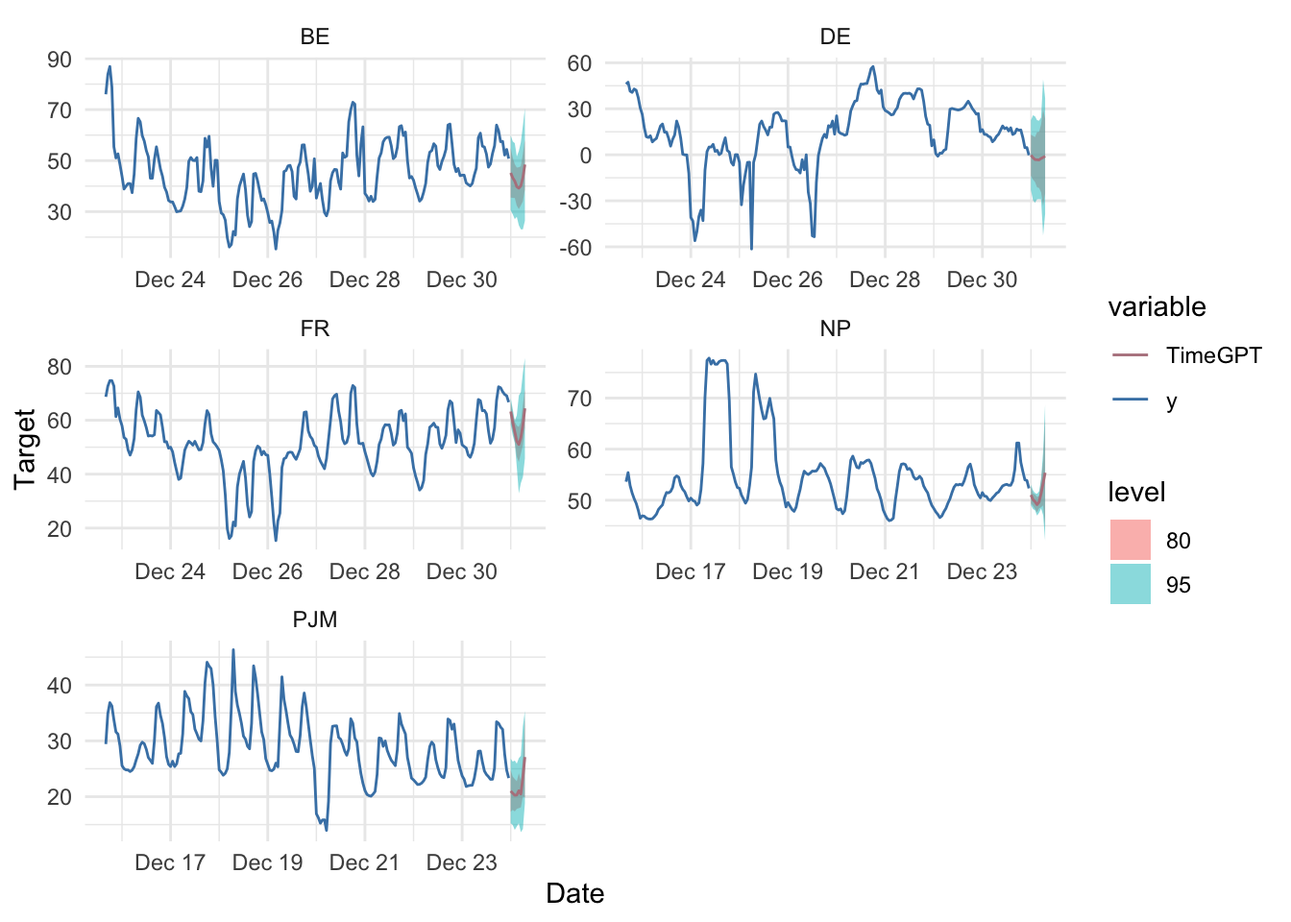
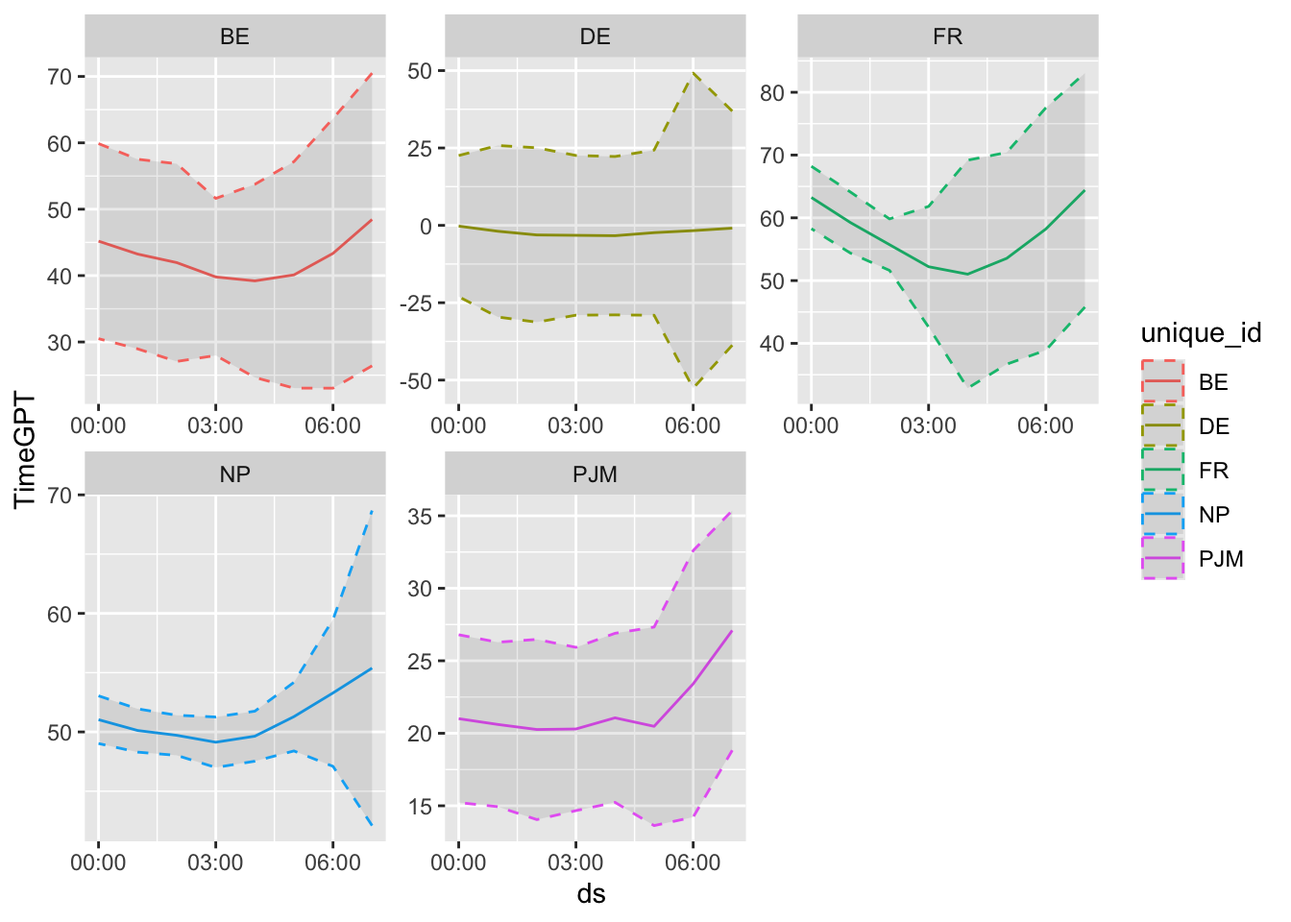
Ready to transfer to R Works

diff --git a/TimeGPT/nixtlar_post.html b/TimeGPT/nixtlar_post.html
@@ -9,7 +9,7 @@
 <meta name="author" content="Joseph Rickert">
 <meta name="dcterms.date" content="2024-12-13">
 
-<title>A First Look at TimeGPT</title>
+<title>A First Look at TimeGPT using nixtlar</title>
 <style>
 code{white-space: pre-wrap;}
 span.smallcaps{font-variant: small-caps;}
@@ -81,7 +81,7 @@ pre > code.sourceCode > span > a:first-child::before { text-decoration: underlin
 
 <header id="title-block-header" class="quarto-title-block default">
 <div class="quarto-title">
-<h1 class="title">A First Look at TimeGPT</h1>
+<h1 class="title">A First Look at TimeGPT using nixtlar</h1>
 </div>
 
 
@@ -108,7 +108,7 @@ pre > code.sourceCode > span > a:first-child::before { text-decoration: underlin
 
 </header>
 
-<p>This post is a first look at <a href="https://docs.nixtla.io/">Nixtla’s</a> <code>TimeGPT</code> generative, pre-trained transformer for time series forecasting.</p>
+<p>This post is a first look at <a href="https://docs.nixtla.io/">Nixtla’s</a> <code>TimeGPT</code> generative, pre-trained transformer for time series forecasting using the <code>nixtlar</code> R package.</p>
 <p>According to <a href="https://arxiv.org/abs/2111.04052">Garza et al.&nbsp;(2021)</a>, TimeGPT is a Transformer-based time series model with self-attention mechanisms. The architecture comprises an encoder-decoder structure with multiple layers, each with residual connections and layer normalization. The encoder, a stack of multi-head self-attention layers followed by a feed-forward neural network, processes the input time series. The decoder, which is similar to the encoder, generates the forecast. The decoder includes an additional multi-head attention layer that takes the encoder’s output as input. The model is trained using a teacher-forcing strategy, where the decoder receives the ground-truth values during training. The model is then used for forecasting by feeding the model’s predictions back as input during inference.</p>
 <p><img src="timegpt.png" class="img-fluid" alt="TimeGPT architecture"></p>
 <p>Nixtla’s website provides a considerable amount of explanatory material, documentation, and code examples in Python. The <a href="https://cran.r-project.org/package=nixtlar"><code>nixlar</code></a> package wraps the Python code to provide an R interface. The package documentation for version 0.6.2 doesn’t fully the R functions, but the vignettes provide sufficient code examples to get started.</p>
@@ -120,22 +120,14 @@ pre > code.sourceCode > span > a:first-child::before { text-decoration: underlin
 <span id="cb1-4"><a href="#cb1-4" aria-hidden="true" tabindex="-1"></a><span class="fu">library</span>(prophet)</span>
 <span id="cb1-5"><a href="#cb1-5" aria-hidden="true" tabindex="-1"></a><span class="fu">library</span>(nixtlar)</span></code><button title="Copy to Clipboard" class="code-copy-button"><i class="bi"></i></button></pre></div>
 </div>
+<section id="the-data" class="level2">
+<h2 class="anchored" data-anchor-id="the-data">The Data</h2>
+<p>The electricity dataset included in the <code>nixtlar</code> package contains hourly observations of electricity consumption generated sourced from the <a href="https://www.pjm.com/">PJM Interconnection LLC</a>, a regional transmission organization that is part of the Eastern Interconnection grid in the United States. There are five different time series with data taken from 2012 to 2018. A look at the data frame shows that the various series do not cover the same time periods.</p>
 <div class="cell">
-<div class="sourceCode cell-code" id="cb2"><pre class="sourceCode r code-with-copy"><code class="sourceCode r"><span id="cb2-1"><a href="#cb2-1" aria-hidden="true" tabindex="-1"></a><span class="co"># saveRDS(nixtla_fcst, "nixtla_fcst.rds")</span></span>
-<span id="cb2-2"><a href="#cb2-2" aria-hidden="true" tabindex="-1"></a>nixtla_fcst <span class="ot">&lt;-</span> <span class="fu">readRDS</span>(<span class="st">"nixtla_fcst.rds"</span>)</span>
-<span id="cb2-3"><a href="#cb2-3" aria-hidden="true" tabindex="-1"></a><span class="co"># saveRDS(nixtla_hist_fcst, "nixtla_hist_fcst.rds")</span></span>
-<span id="cb2-4"><a href="#cb2-4" aria-hidden="true" tabindex="-1"></a>nixt_hist_fcst <span class="ot">&lt;-</span> <span class="fu">readRDS</span>(<span class="st">"nixtla_hist_fcst.rds"</span>)</span>
-<span id="cb2-5"><a href="#cb2-5" aria-hidden="true" tabindex="-1"></a><span class="co"># saveRDS(nixtla_client_fcst, "nixtla_client_fcst.rds")</span></span>
-<span id="cb2-6"><a href="#cb2-6" aria-hidden="true" tabindex="-1"></a>nixtla_client_fcst <span class="ot">&lt;-</span> <span class="fu">readRDS</span>(<span class="st">"nixtla_client_fcst.rds"</span>)</span></code><button title="Copy to Clipboard" class="code-copy-button"><i class="bi"></i></button></pre></div>
-</div>
-<section id="the-data" class="level3">
-<h3 class="anchored" data-anchor-id="the-data">The Data</h3>
-<p>We will use the electricity dataset provided with the <code>nixtlar</code> package that contains a total of 61,320 observations of hourly electricity consumption generated from 2012 to 2018 for five different markets New York markets. So there are five different time series. You can see that the various time series do not cover the same time periods.</p>
-<div class="cell">
-<div class="sourceCode cell-code" id="cb3"><pre class="sourceCode r code-with-copy"><code class="sourceCode r"><span id="cb3-1"><a href="#cb3-1" aria-hidden="true" tabindex="-1"></a>df <span class="ot">&lt;-</span> nixtlar<span class="sc">::</span>electricity</span>
-<span id="cb3-2"><a href="#cb3-2" aria-hidden="true" tabindex="-1"></a>df_wide <span class="ot">&lt;-</span> df <span class="sc">|&gt;</span> </span>
-<span id="cb3-3"><a href="#cb3-3" aria-hidden="true" tabindex="-1"></a>  <span class="fu">pivot_wider</span>(<span class="at">names_from =</span> unique_id, <span class="at">values_from =</span> y) </span>
-<span id="cb3-4"><a href="#cb3-4" aria-hidden="true" tabindex="-1"></a><span class="fu">head</span>(df_wide)</span></code><button title="Copy to Clipboard" class="code-copy-button"><i class="bi"></i></button></pre></div>
+<div class="sourceCode cell-code" id="cb2"><pre class="sourceCode r code-with-copy"><code class="sourceCode r"><span id="cb2-1"><a href="#cb2-1" aria-hidden="true" tabindex="-1"></a>df <span class="ot">&lt;-</span> nixtlar<span class="sc">::</span>electricity</span>
+<span id="cb2-2"><a href="#cb2-2" aria-hidden="true" tabindex="-1"></a>df_wide <span class="ot">&lt;-</span> df <span class="sc">|&gt;</span> </span>
+<span id="cb2-3"><a href="#cb2-3" aria-hidden="true" tabindex="-1"></a>  <span class="fu">pivot_wider</span>(<span class="at">names_from =</span> unique_id, <span class="at">values_from =</span> y) </span>
+<span id="cb2-4"><a href="#cb2-4" aria-hidden="true" tabindex="-1"></a><span class="fu">head</span>(df_wide)</span></code><button title="Copy to Clipboard" class="code-copy-button"><i class="bi"></i></button></pre></div>
 <div class="cell-output cell-output-stdout">
 <pre><code># A tibble: 6 × 6
   ds                     BE    DE    FR    NP   PJM
@@ -148,38 +140,46 @@ pre > code.sourceCode > span > a:first-child::before { text-decoration: underlin
 6 2016-10-22 05:00:00  35.6    NA  41.4    NA    NA</code></pre>
 </div>
 </div>
-<p>A plot will give you a good feel for the data.</p>
+<p>Plots indicate that all of the series show periods of considerable volatility. The BE, DE, and FR series appear to be stationary. NP trends upward to the right and the PJM series appears to be nonlinear.</p>
 <div class="cell">
-<div class="sourceCode cell-code" id="cb5"><pre class="sourceCode r code-with-copy"><code class="sourceCode r"><span id="cb5-1"><a href="#cb5-1" aria-hidden="true" tabindex="-1"></a>df2 <span class="ot">&lt;-</span> df <span class="sc">|&gt;</span> <span class="fu">mutate</span>( <span class="at">time =</span> <span class="fu">as.POSIXct</span>(ds, <span class="at">format =</span> <span class="st">"%Y-%m-%d %H:%M:%S"</span>)) <span class="sc">|&gt;</span> </span>
-<span id="cb5-2"><a href="#cb5-2" aria-hidden="true" tabindex="-1"></a>                     <span class="fu">group_by</span>(unique_id)</span>
-<span id="cb5-3"><a href="#cb5-3" aria-hidden="true" tabindex="-1"></a>p <span class="ot">&lt;-</span> df2 <span class="sc">|&gt;</span> <span class="fu">ggplot</span>(<span class="fu">aes</span>(<span class="at">x =</span> time, <span class="at">y =</span> y, <span class="at">color =</span> unique_id)) <span class="sc">+</span></span>
-<span id="cb5-4"><a href="#cb5-4" aria-hidden="true" tabindex="-1"></a>           <span class="fu">geom_line</span>() <span class="sc">+</span> <span class="fu">facet_wrap</span>(<span class="sc">~</span>unique_id, <span class="at">scales =</span> <span class="st">"free"</span>)</span>
-<span id="cb5-5"><a href="#cb5-5" aria-hidden="true" tabindex="-1"></a>p</span></code><button title="Copy to Clipboard" class="code-copy-button"><i class="bi"></i></button></pre></div>
+<div class="sourceCode cell-code" id="cb4"><pre class="sourceCode r code-with-copy"><code class="sourceCode r"><span id="cb4-1"><a href="#cb4-1" aria-hidden="true" tabindex="-1"></a>df2 <span class="ot">&lt;-</span> df <span class="sc">|&gt;</span> <span class="fu">mutate</span>( <span class="at">time =</span> <span class="fu">as.POSIXct</span>(ds, <span class="at">format =</span> <span class="st">"%Y-%m-%d %H:%M:%S"</span>)) <span class="sc">|&gt;</span> </span>
+<span id="cb4-2"><a href="#cb4-2" aria-hidden="true" tabindex="-1"></a>                     <span class="fu">group_by</span>(unique_id)</span>
+<span id="cb4-3"><a href="#cb4-3" aria-hidden="true" tabindex="-1"></a>p <span class="ot">&lt;-</span> df2 <span class="sc">|&gt;</span> <span class="fu">ggplot</span>(<span class="fu">aes</span>(<span class="at">x =</span> time, <span class="at">y =</span> y, <span class="at">color =</span> unique_id)) <span class="sc">+</span></span>
+<span id="cb4-4"><a href="#cb4-4" aria-hidden="true" tabindex="-1"></a>           <span class="fu">geom_line</span>() <span class="sc">+</span> <span class="fu">facet_wrap</span>(<span class="sc">~</span>unique_id, <span class="at">scales =</span> <span class="st">"free"</span>)</span>
+<span id="cb4-5"><a href="#cb4-5" aria-hidden="true" tabindex="-1"></a>p</span></code><button title="Copy to Clipboard" class="code-copy-button"><i class="bi"></i></button></pre></div>
 <div class="cell-output-display">
-<p><img src="nixtlar_post_files/figure-html/unnamed-chunk-4-1.png" class="img-fluid" width="672"></p>
+<p><img src="nixtlar_post_files/figure-html/unnamed-chunk-3-1.png" class="img-fluid" width="672"></p>
 </div>
 </div>
 </section>
-<section id="forecasting" class="level3">
-<h3 class="anchored" data-anchor-id="forecasting">Forecasting</h3>
-<p>We will start out by showing off the <code>nixtlar</code> forecasting function which can handle multiple time series by forecasting eight hours ahead using all of the data. The parameter <code>h</code> specifies the number of steps ahead to forecast, and <code>level</code> specifies parameter that the confidence level for the forecast.</p>
+<section id="some-comparative-frecasts" class="level2">
+<h2 class="anchored" data-anchor-id="some-comparative-frecasts">Some Comparative Frecasts</h2>
+<section id="the-timegpt-forecst" class="level3">
+<h3 class="anchored" data-anchor-id="the-timegpt-forecst">The TimeGPT Forecst</h3>
+<p>I’ll begin by showing off the <code>nixtlar</code> forecasting function which can handle multiple time series by forecasting eight hours ahead using all of the data. The parameter <code>h</code> specifies the number of steps ahead to forecast, and <code>level</code> specifies parameter that the confidence level for the forecast.</p>
 <p>Here is the built-in <code>nixtlar</code> plot function</p>
+<div class="cell">
+<div class="sourceCode cell-code" id="cb5"><pre class="sourceCode r code-with-copy"><code class="sourceCode r"><span id="cb5-1"><a href="#cb5-1" aria-hidden="true" tabindex="-1"></a><span class="co">#nixtla_client_plot(df, nixtla_client_fcst, max_insample_length = 200)</span></span></code><button title="Copy to Clipboard" class="code-copy-button"><i class="bi"></i></button></pre></div>
+</div>
 <p><img src="fcst.png" class="img-fluid" alt=""></p>
-<p>And here we focuse on the forecasts using <code>ggplot2</code>.</p>
+<p>This plot uses<code>ggplot2</code>to focus in on the forecasts.</p>
 <div class="cell">
 <div class="sourceCode cell-code" id="cb6"><pre class="sourceCode r code-with-copy"><code class="sourceCode r"><span id="cb6-1"><a href="#cb6-1" aria-hidden="true" tabindex="-1"></a><span class="co"># nixtla_client_fcst &lt;- nixtla_client_forecast(df, h = 8, level = c(80,95))</span></span>
-<span id="cb6-2"><a href="#cb6-2" aria-hidden="true" tabindex="-1"></a>ncf_df <span class="ot">&lt;-</span>  nixtla_client_fcst <span class="sc">|&gt;</span> <span class="fu">mutate</span>( <span class="at">time =</span> <span class="fu">as.POSIXct</span>(ds, <span class="at">format =</span> <span class="st">"%Y-%m-%d %H:%M:%S"</span>)) <span class="sc">|&gt;</span> <span class="fu">group_by</span>(unique_id)</span>
-<span id="cb6-3"><a href="#cb6-3" aria-hidden="true" tabindex="-1"></a><span class="fu">names</span>(ncf_df) <span class="ot">&lt;-</span> <span class="fu">c</span>(<span class="st">"unique_id"</span>, <span class="st">"ds"</span>, <span class="st">"TimeGPT"</span>,  <span class="st">"lon"</span>, <span class="st">"loe"</span>, <span class="st">"hie"</span>, <span class="st">"hin"</span>)</span>
-<span id="cb6-4"><a href="#cb6-4" aria-hidden="true" tabindex="-1"></a>pf <span class="ot">&lt;-</span> ncf_df <span class="sc">|&gt;</span> <span class="fu">ggplot</span>(<span class="fu">aes</span>(<span class="at">x =</span> ds, <span class="at">y =</span> TimeGPT, <span class="at">color =</span> unique_id)) <span class="sc">+</span></span>
-<span id="cb6-5"><a href="#cb6-5" aria-hidden="true" tabindex="-1"></a>           <span class="fu">geom_line</span>() <span class="sc">+</span></span>
-<span id="cb6-6"><a href="#cb6-6" aria-hidden="true" tabindex="-1"></a>           <span class="fu">geom_ribbon</span>(<span class="fu">aes</span>(<span class="at">ymin=</span>lon, <span class="at">ymax=</span>hin), <span class="at">linetype=</span><span class="dv">2</span>, <span class="at">alpha=</span><span class="fl">0.1</span>) <span class="sc">+</span></span>
-<span id="cb6-7"><a href="#cb6-7" aria-hidden="true" tabindex="-1"></a>           <span class="fu">facet_wrap</span>(<span class="sc">~</span>unique_id, <span class="at">scales =</span> <span class="st">"free"</span>) </span>
-<span id="cb6-8"><a href="#cb6-8" aria-hidden="true" tabindex="-1"></a>pf</span></code><button title="Copy to Clipboard" class="code-copy-button"><i class="bi"></i></button></pre></div>
+<span id="cb6-2"><a href="#cb6-2" aria-hidden="true" tabindex="-1"></a><span class="co"># saveRDS(nixtla_client_fcst, "nixtla_client_fcst.rds")</span></span>
+<span id="cb6-3"><a href="#cb6-3" aria-hidden="true" tabindex="-1"></a>nixtla_client_fcst <span class="ot">&lt;-</span> <span class="fu">readRDS</span>(<span class="st">"nixtla_client_fcst.rds"</span>)</span>
+<span id="cb6-4"><a href="#cb6-4" aria-hidden="true" tabindex="-1"></a></span>
+<span id="cb6-5"><a href="#cb6-5" aria-hidden="true" tabindex="-1"></a>ncf_df <span class="ot">&lt;-</span>  nixtla_client_fcst <span class="sc">|&gt;</span> <span class="fu">mutate</span>( <span class="at">time =</span> <span class="fu">as.POSIXct</span>(ds, <span class="at">format =</span> <span class="st">"%Y-%m-%d %H:%M:%S"</span>)) <span class="sc">|&gt;</span> <span class="fu">group_by</span>(unique_id)</span>
+<span id="cb6-6"><a href="#cb6-6" aria-hidden="true" tabindex="-1"></a><span class="fu">names</span>(ncf_df) <span class="ot">&lt;-</span> <span class="fu">c</span>(<span class="st">"unique_id"</span>, <span class="st">"ds"</span>, <span class="st">"TimeGPT"</span>,  <span class="st">"lon"</span>, <span class="st">"loe"</span>, <span class="st">"hie"</span>, <span class="st">"hin"</span>)</span>
+<span id="cb6-7"><a href="#cb6-7" aria-hidden="true" tabindex="-1"></a>pf <span class="ot">&lt;-</span> ncf_df <span class="sc">|&gt;</span> <span class="fu">ggplot</span>(<span class="fu">aes</span>(<span class="at">x =</span> ds, <span class="at">y =</span> TimeGPT, <span class="at">color =</span> unique_id)) <span class="sc">+</span></span>
+<span id="cb6-8"><a href="#cb6-8" aria-hidden="true" tabindex="-1"></a>           <span class="fu">geom_line</span>() <span class="sc">+</span></span>
+<span id="cb6-9"><a href="#cb6-9" aria-hidden="true" tabindex="-1"></a>           <span class="fu">geom_ribbon</span>(<span class="fu">aes</span>(<span class="at">ymin=</span>lon, <span class="at">ymax=</span>hin), <span class="at">linetype=</span><span class="dv">2</span>, <span class="at">alpha=</span><span class="fl">0.1</span>) <span class="sc">+</span></span>
+<span id="cb6-10"><a href="#cb6-10" aria-hidden="true" tabindex="-1"></a>           <span class="fu">facet_wrap</span>(<span class="sc">~</span>unique_id, <span class="at">scales =</span> <span class="st">"free"</span>) </span>
+<span id="cb6-11"><a href="#cb6-11" aria-hidden="true" tabindex="-1"></a>pf</span></code><button title="Copy to Clipboard" class="code-copy-button"><i class="bi"></i></button></pre></div>
 <div class="cell-output-display">
-<p><img src="nixtlar_post_files/figure-html/unnamed-chunk-6-1.png" class="img-fluid" width="672"></p>
+<p><img src="nixtlar_post_files/figure-html/unnamed-chunk-5-1.png" class="img-fluid" width="672"></p>
 </div>
 </div>
-<p>For the rest of this post we will work only with the BE data and do some simple back testing. We will split the data into training set and a test set containing 24 hours worth of observations. We will then fit several time series forecasting models and compare how well they do vis a vis the actual data and with each other.</p>
+<p>For the rest of this post I’ll work only with the BE data and do some simple back testing. I will split the data into training set and a test set containing 24 hours worth of observations. Then I’ll fit established time series forecasting models and compare how well they do vis-a-vis the actual data and with each other. Note, I will not attempt any tuning of these models. This will make it a fair, “out-of-the-box” comparison.</p>
 <div class="cell">
 <div class="sourceCode cell-code" id="cb7"><pre class="sourceCode r code-with-copy"><code class="sourceCode r"><span id="cb7-1"><a href="#cb7-1" aria-hidden="true" tabindex="-1"></a>NF <span class="ot">&lt;-</span> <span class="dv">24</span></span>
 <span id="cb7-2"><a href="#cb7-2" aria-hidden="true" tabindex="-1"></a>BE_df_wide <span class="ot">&lt;-</span> df <span class="sc">|&gt;</span> <span class="fu">pivot_wider</span>(<span class="at">names_from =</span> unique_id, <span class="at">values_from =</span> y) <span class="sc">|&gt;</span></span>
@@ -189,12 +189,14 @@ pre > code.sourceCode > span > a:first-child::before { text-decoration: underlin
 <span id="cb7-6"><a href="#cb7-6" aria-hidden="true" tabindex="-1"></a>BE_train_df <span class="ot">&lt;-</span> BE_train_df <span class="sc">|&gt;</span> <span class="fu">rename</span>(<span class="at">y =</span> BE) <span class="sc">|&gt;</span> <span class="fu">mutate</span>(<span class="at">unique_id =</span> <span class="st">"BE"</span>)</span>
 <span id="cb7-7"><a href="#cb7-7" aria-hidden="true" tabindex="-1"></a>BE_test_df <span class="ot">&lt;-</span> BE_test_df <span class="sc">|&gt;</span> <span class="fu">rename</span>(<span class="at">y =</span> BE)</span></code><button title="Copy to Clipboard" class="code-copy-button"><i class="bi"></i></button></pre></div>
 </div>
-<p>We start of with the TemeGPT forecast.</p>
+<p>The <code>nixtla_client_forecast()</code> function is the main <code>nixtlar</code> forecasting function. (I have already run this function and saved the results RDS file in order not to make an API call every time the code is run during the blog building process.)</p>
 <div class="cell">
-<div class="sourceCode cell-code" id="cb8"><pre class="sourceCode r code-with-copy"><code class="sourceCode r"><span id="cb8-1"><a href="#cb8-1" aria-hidden="true" tabindex="-1"></a><span class="co">#nixtla_fcst &lt;- nixtla_client_forecast(BE_train_df, h = NF, level = 95)</span></span>
-<span id="cb8-2"><a href="#cb8-2" aria-hidden="true" tabindex="-1"></a><span class="fu">names</span>(nixtla_fcst) <span class="ot">&lt;-</span> <span class="fu">c</span>(<span class="st">"unique_id"</span>, <span class="st">"ds"</span>, <span class="st">"TimeGPT"</span>, <span class="st">"lo95"</span>, <span class="st">"up95"</span>)</span></code><button title="Copy to Clipboard" class="code-copy-button"><i class="bi"></i></button></pre></div>
+<div class="sourceCode cell-code" id="cb8"><pre class="sourceCode r code-with-copy"><code class="sourceCode r"><span id="cb8-1"><a href="#cb8-1" aria-hidden="true" tabindex="-1"></a><span class="co"># nixtla_fcst &lt;- nixtla_client_forecast(BE_train_df, h = NF, level = 95)</span></span>
+<span id="cb8-2"><a href="#cb8-2" aria-hidden="true" tabindex="-1"></a><span class="co"># saveRDS(nixtla_fcst, "nixtla_fcst.rds")</span></span>
+<span id="cb8-3"><a href="#cb8-3" aria-hidden="true" tabindex="-1"></a>nixtla_fcst <span class="ot">&lt;-</span> <span class="fu">readRDS</span>(<span class="st">"nixtla_fcst.rds"</span>)</span>
+<span id="cb8-4"><a href="#cb8-4" aria-hidden="true" tabindex="-1"></a><span class="fu">names</span>(nixtla_fcst) <span class="ot">&lt;-</span> <span class="fu">c</span>(<span class="st">"unique_id"</span>, <span class="st">"ds"</span>, <span class="st">"TimeGPT"</span>, <span class="st">"lo95"</span>, <span class="st">"up95"</span>)</span></code><button title="Copy to Clipboard" class="code-copy-button"><i class="bi"></i></button></pre></div>
 </div>
-<p>Create the data frame to hold the actual and forecast values</p>
+<p>Here, I create a data frame to hold the actual and forecast values</p>
 <div class="cell">
 <div class="sourceCode cell-code" id="cb9"><pre class="sourceCode r code-with-copy"><code class="sourceCode r"><span id="cb9-1"><a href="#cb9-1" aria-hidden="true" tabindex="-1"></a>fcst_df <span class="ot">&lt;-</span> <span class="fu">tail</span>(nixtla_fcst,NF) <span class="sc">|&gt;</span> <span class="fu">select</span>(ds,TimeGPT) <span class="sc">|&gt;</span> </span>
 <span id="cb9-2"><a href="#cb9-2" aria-hidden="true" tabindex="-1"></a>           <span class="fu">rename</span>(<span class="at">time =</span> ds, <span class="at">tgpt_fcst =</span> TimeGPT) <span class="sc">|&gt;</span></span>
@@ -213,6 +215,7 @@ pre > code.sourceCode > span > a:first-child::before { text-decoration: underlin
 </section>
 <section id="arima-forecast-with-auto.arima" class="level3">
 <h3 class="anchored" data-anchor-id="arima-forecast-with-auto.arima">ARIMA Forecast with <code>auto.arima()</code></h3>
+<p>The <code>auto.arima()</code> function form the <code>forecast</code> package fits an ARIMA(2,1,1) model. This means two autoregressive terms, one difference and one moving average term.</p>
 <div class="cell">
 <div class="sourceCode cell-code" id="cb11"><pre class="sourceCode r code-with-copy"><code class="sourceCode r"><span id="cb11-1"><a href="#cb11-1" aria-hidden="true" tabindex="-1"></a>arima_train <span class="ot">&lt;-</span> BE_train_df <span class="sc">|&gt;</span> <span class="fu">select</span>(<span class="sc">-</span>unique_id) <span class="sc">|&gt;</span></span>
 <span id="cb11-2"><a href="#cb11-2" aria-hidden="true" tabindex="-1"></a>               <span class="fu">mutate</span>( <span class="at">time =</span> <span class="fu">as.POSIXct</span>(ds, <span class="at">format =</span> <span class="st">"%Y-%m-%d %H:%M:%S"</span>))</span>
@@ -228,17 +231,27 @@ pre > code.sourceCode > span > a:first-child::before { text-decoration: underlin
 </section>
 <section id="exponential-smoothing-forecast-with-ets" class="level3">
 <h3 class="anchored" data-anchor-id="exponential-smoothing-forecast-with-ets">Exponential smoothing forecast with <code>ets()</code></h3>
+<p>Because I have provided no guidance, the <code>ets()</code> function from the <code>forecast</code> package fits an ETS(A,A,N) model with an additive error, an additive trend and no seasonality. All parameters are estimated from the data.</p>
 <div class="cell">
 <div class="sourceCode cell-code" id="cb12"><pre class="sourceCode r code-with-copy"><code class="sourceCode r"><span id="cb12-1"><a href="#cb12-1" aria-hidden="true" tabindex="-1"></a>ets_fcst <span class="ot">&lt;-</span> elec_ts <span class="sc">|&gt;</span> </span>
 <span id="cb12-2"><a href="#cb12-2" aria-hidden="true" tabindex="-1"></a>  <span class="fu">ets</span>() <span class="sc">|&gt;</span></span>
 <span id="cb12-3"><a href="#cb12-3" aria-hidden="true" tabindex="-1"></a>  <span class="co"># number of periods to forecast</span></span>
 <span id="cb12-4"><a href="#cb12-4" aria-hidden="true" tabindex="-1"></a>  <span class="fu">forecast</span>(<span class="at">h =</span> NF)</span></code><button title="Copy to Clipboard" class="code-copy-button"><i class="bi"></i></button></pre></div>
 </div>
+</section>
+<section id="prophet-forecast" class="level3">
+<h3 class="anchored" data-anchor-id="prophet-forecast">Prophet Forecast</h3>
+<p>I also ask the <code>prophet()</code> function from the <code>prophet</code> package for an automatic fit using the default parameters. Among other things this means a linear growth curve additive seasonality and automatic estimates for daily seasonality. As above, the model is fit to the data in the <code>BE_train_df</code> data frame, but here the <code>make_future_dataframe()</code> function creates a data frame with the same structure as <code>BE_train_df</code> but with the <code>ds</code> column extended by <code>NF</code> periods.</p>
 <div class="cell">
 <div class="sourceCode cell-code" id="cb13"><pre class="sourceCode r code-with-copy"><code class="sourceCode r"><span id="cb13-1"><a href="#cb13-1" aria-hidden="true" tabindex="-1"></a>prophet_fit <span class="ot">&lt;-</span> <span class="fu">prophet</span>(BE_train_df)</span>
 <span id="cb13-2"><a href="#cb13-2" aria-hidden="true" tabindex="-1"></a>future <span class="ot">&lt;-</span> <span class="fu">make_future_dataframe</span>(prophet_fit, <span class="at">periods =</span> NF,  <span class="at">freq =</span> <span class="dv">3600</span>, <span class="at">include_history =</span> <span class="cn">FALSE</span>)</span>
 <span id="cb13-3"><a href="#cb13-3" aria-hidden="true" tabindex="-1"></a>prophet_fcst <span class="ot">&lt;-</span> <span class="fu">predict</span>(prophet_fit, future)</span></code><button title="Copy to Clipboard" class="code-copy-button"><i class="bi"></i></button></pre></div>
 </div>
+</section>
+</section>
+<section id="final-plot-and-discussion" class="level2">
+<h2 class="anchored" data-anchor-id="final-plot-and-discussion">Final Plot and Discussion</h2>
+<p>Before plotting, Let’s have a look at the wide data frame that holds the forecasts.</p>
 <div class="cell">
 <div class="sourceCode cell-code" id="cb14"><pre class="sourceCode r code-with-copy"><code class="sourceCode r"><span id="cb14-1"><a href="#cb14-1" aria-hidden="true" tabindex="-1"></a>fcst_df2 <span class="ot">&lt;-</span> fcst_df <span class="sc">|&gt;</span></span>
 <span id="cb14-2"><a href="#cb14-2" aria-hidden="true" tabindex="-1"></a>             <span class="fu">mutate</span>(<span class="at">arima_fcst =</span> <span class="fu">as.vector</span>(arima_fcst<span class="sc">$</span>mean),</span>
@@ -255,6 +268,7 @@ pre > code.sourceCode > span > a:first-child::before { text-decoration: underlin
 6 2016-12-30 05:00:00  33.27422       41.02   49.22347 40.49310     23.54824</code></pre>
 </div>
 </div>
+<p>Then, shape the data into long format and plot.</p>
 <div class="cell">
 <div class="sourceCode cell-code" id="cb16"><pre class="sourceCode r code-with-copy"><code class="sourceCode r"><span id="cb16-1"><a href="#cb16-1" aria-hidden="true" tabindex="-1"></a>fcst_dft2_long <span class="ot">&lt;-</span> fcst_df2 <span class="sc">%&gt;%</span></span>
 <span id="cb16-2"><a href="#cb16-2" aria-hidden="true" tabindex="-1"></a>  <span class="fu">pivot_longer</span>(<span class="sc">!</span>time, <span class="at">names_to =</span> <span class="st">"method"</span>, <span class="at">values_to =</span> <span class="st">"mean"</span>)</span>
@@ -265,9 +279,17 @@ pre > code.sourceCode > span > a:first-child::before { text-decoration: underlin
 <span id="cb16-7"><a href="#cb16-7" aria-hidden="true" tabindex="-1"></a>                        <span class="fu">ggtitle</span>(<span class="st">"TimeGPT vs ARIMA vs ETS vs Prophet vs actual data"</span>) </span>
 <span id="cb16-8"><a href="#cb16-8" aria-hidden="true" tabindex="-1"></a>q</span></code><button title="Copy to Clipboard" class="code-copy-button"><i class="bi"></i></button></pre></div>
 <div class="cell-output-display">
-<p><img src="nixtlar_post_files/figure-html/unnamed-chunk-14-1.png" class="img-fluid" width="672"></p>
+<p><img src="nixtlar_post_files/figure-html/unnamed-chunk-13-1.png" class="img-fluid" width="672"></p>
 </div>
 </div>
+<p>I don’t think that there are any big surprises here. Because the Nixtla folks chose the electricity data set to show off their transformer, I was expecting a pretty good fit. However, it is curious that except for one point the TimeGPT forecast is lower than the actual data. It is also interesting that the forecasts that are farther out are a better match to the actual data.</p>
+<p>The “no thought” prophet model does a pretty good job, but it does seem to have overacted to the downward trends at the beginning and end of the forecast period. My guess is that with a little thought prophet could do better.</p>
+<p>The ARIMA model is a bit of a disappointment. I would have expected it to follow some of the twists and turns. It is as if the exponential smoothing and ARIMA models flipped a coin at the beginning of the forecast to decide who takes the high road and who gets the low road, but then tracked each other all the way through. However, to my way of thinking the exponential smoothing forecast is outstanding. It tracks the actual data closely for six forecast points. If I could find a model that does this regularly six out of ten times I could make some money. Thereafter, it looks like the exponential model does exactly what it is supposed to do.</p>
+</section>
+<section id="some-final-thoughts" class="level2">
+<h2 class="anchored" data-anchor-id="some-final-thoughts">Some Final Thoughts</h2>
+<p>It is clear that the TimeGPT model has upped the game for black box time series forecasting. It looks like it will be a powerful tool for doing exploratory work with large time series and comparing and contrasting multiple time series. Moreover, I expect that time series experts who can fine tune prophet and more traditional time series models will assess its behavior in relation to these models and develop a better intuition as to how to deploy TimeGPT.</p>
+<p>For a more sophisticated analysis of these series that deals with their multiseasonality aspects see the <a href="https://nixtlaverse.nixtla.io/statsforecast/docs/tutorials/electricityloadforecasting.html">Electricity Load Forecast Tutorial</a>.</p>
 </section>
 
 </main>
